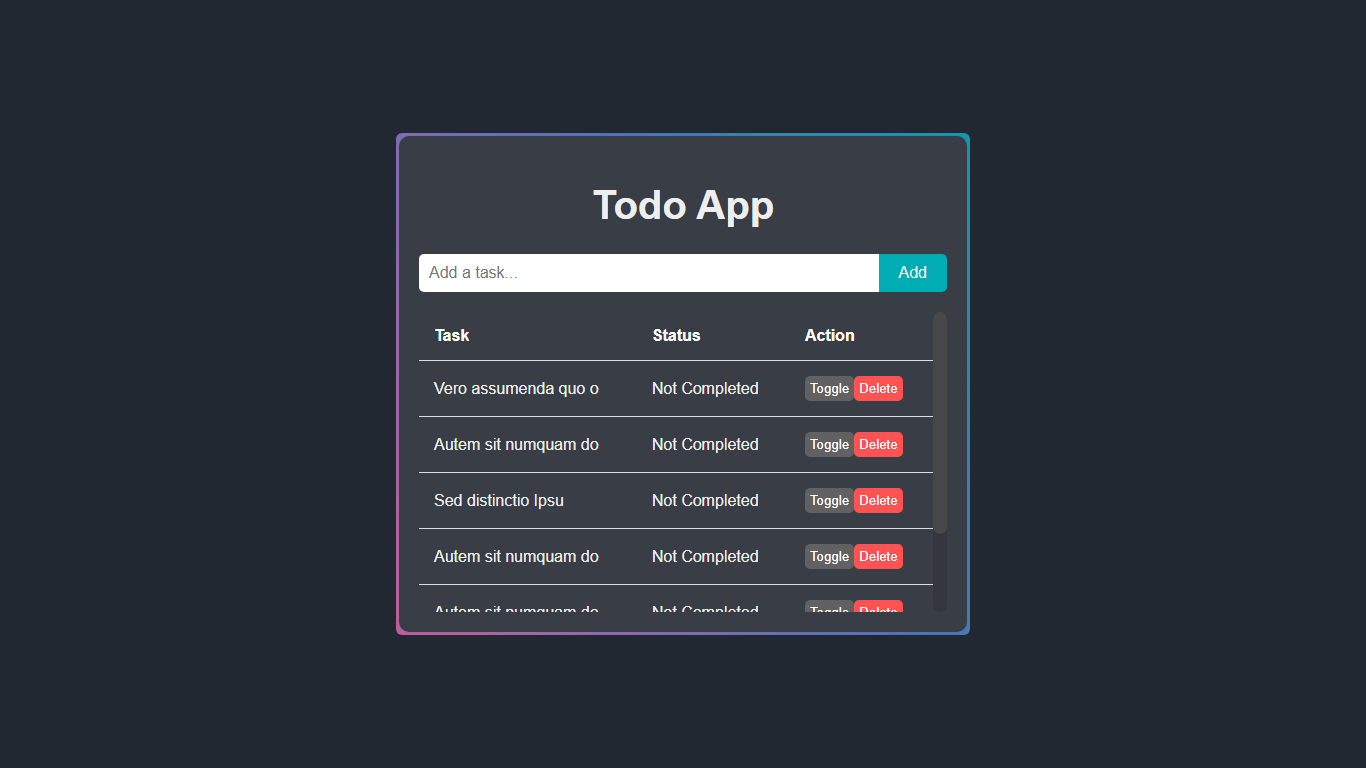
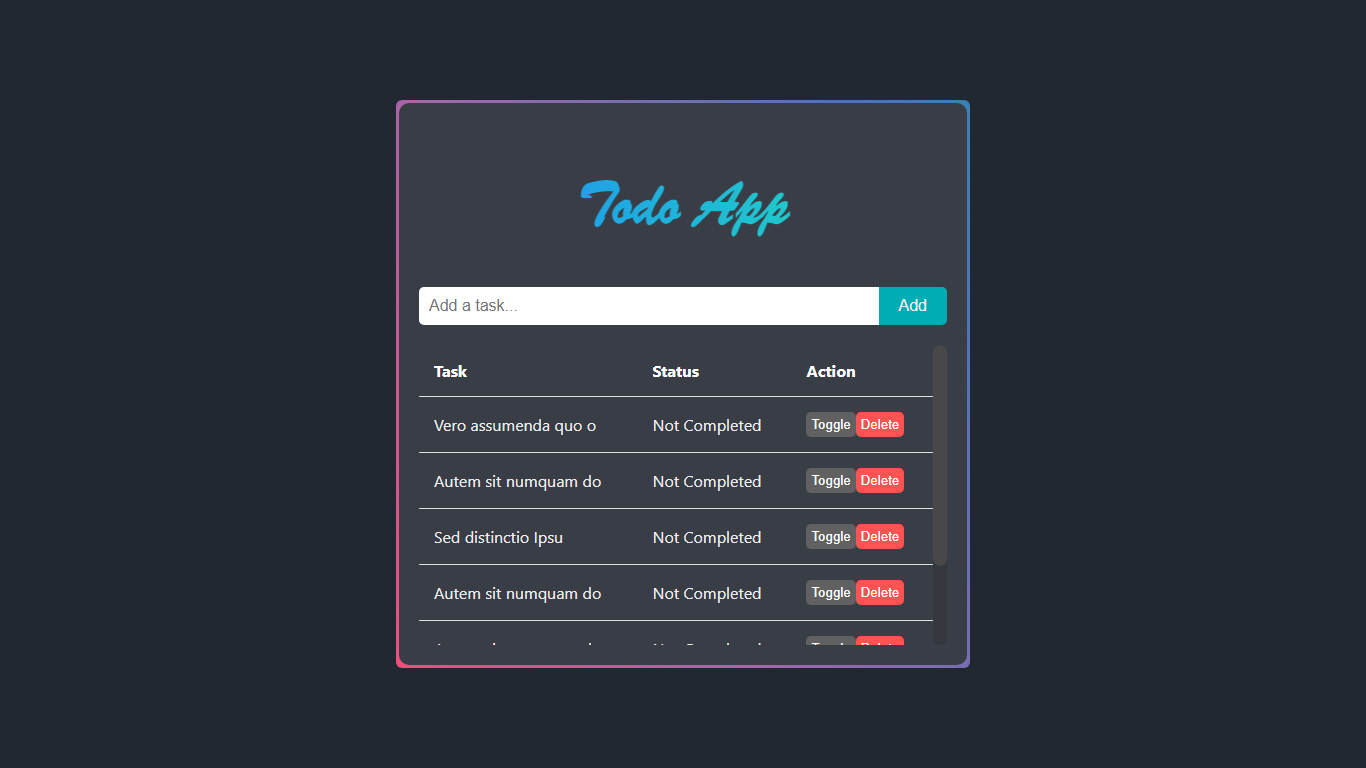
feat
Update TodoApp : Change Title and Make Responsive

Changed region(s): [[0.2767, 0.2188, 0.7072, 0.875], [0.2767, 0.125, 0.7072, 0.1875]]

diff --git a/Contents/TodoApp/style/style.css b/Contents/TodoApp/style/style.css
@@ -4,10 +4,11 @@ body {
   align-items: center;
   height: 100vh;
   margin: 0%;
-  padding: 0%;
+  padding: 0% 5% 0% 5%;
   background-color: #222831;
   color: #eeeeee;
-  font-family: Arial, Helvetica, sans-serif;
+  font-family: system-ui, -apple-system, BlinkMacSystemFont, "Segoe UI", Roboto,
+    Oxygen, Ubuntu, Cantarell, "Open Sans", "Helvetica Neue", sans-serif;
 }
 #box {
   background-color: #393e46;
@@ -17,8 +18,26 @@ body {
   width: 528px;
 }
 
-#box h1{
-    font-size: 40px;
+@keyframes gradient-animation {
+  0% {
+    background-position: 0% 50%;
+  }
+  50% {
+    background-position: 100% 50%;
+  }
+  100% {
+    background-position: 0% 50%;
+  }
+}
+
+#box h1 {
+  font-size: 4em;
+  background: linear-gradient(270deg, #ff4b1f, #1fddff, #1fffa5, #1f7eff);
+  background-size: 400% 400%;
+  -webkit-background-clip: text;
+  -webkit-text-fill-color: transparent;
+  font-family: "Brush Script MT", cursive;
+  animation: gradient-animation 4s ease infinite;
 }
 
 .container {
@@ -51,62 +70,62 @@ body {
   background-size: 300% 300%;
 }
 @keyframes animatedgradient {
-	0% {
-		background-position: 0% 50%;
-	}
-	50% {
-		background-position: 100% 50%;
-	}
-	100% {
-		background-position: 0% 50%;
-	}
+  0% {
+    background-position: 0% 50%;
+  }
+  50% {
+    background-position: 100% 50%;
+  }
+  100% {
+    background-position: 0% 50%;
+  }
 }
 
-.input-container{
-    margin-bottom: 20px;
-    display: flex;
+.input-container {
+  margin-bottom: 20px;
+  display: flex;
+  width: 100%;
+  input {
     width: 100%;
-    input{
-        width: 100%;
-        padding: 10px;
-        border: none;
-        border-top-left-radius: 5px;
-        border-bottom-left-radius: 5px;
-        outline: none;
-        font-size: 16px;
-    }
-    button{
-        padding: 10px 20px;
-        border: none;
-        border-top-right-radius: 5px;
-        border-bottom-right-radius: 5px;
-        background-color: #00ADB5;
-        color: #eeeeee;
-        cursor: pointer;
-        font-size: 16px;
-    }
-    button:hover{
-        background-color: #028086;
-    }
-    button:focus{
-        outline: none;
-    }
-
+    padding: 10px;
+    border: none;
+    border-top-left-radius: 5px;
+    border-bottom-left-radius: 5px;
+    outline: none;
+    font-size: 16px;
+  }
+  button {
+    padding: 10px 20px;
+    border: none;
+    border-top-right-radius: 5px;
+    border-bottom-right-radius: 5px;
+    background-color: #00adb5;
+    color: #eeeeee;
+    cursor: pointer;
+    font-size: 16px;
+  }
+  button:hover {
+    background-color: #028086;
+  }
+  button:focus {
+    outline: none;
+  }
 }
-table{
-    width: 100%;
-    border-collapse: collapse;
-    margin-bottom: 20px;
-    th, td {
-        padding: 15px;
-        text-align: left;
-        border-bottom: 1px solid #ddd;
-    }
-    th {
-        color: white;
-    }
+table {
+  width: 100%;
+  border-collapse: collapse;
+  margin-bottom: 20px;
+  th,
+  td {
+    padding: 15px;
+    text-align: left;
+    border-bottom: 1px solid #ddd;
+  }
+  th {
+    color: white;
+  }
 }
-.body-container{
+.body-container {
   height: 300px;
   overflow-y: scroll;
 }
@@ -123,8 +142,6 @@ table{
   color: #fff;
 }
 
-
-
 .body-container {
   --sb-track-color: #34373d;
   --sb-thumb-color: #48484b;
@@ -132,7 +149,7 @@ table{
 }
 
 .body-container::-webkit-scrollbar {
-  width: var(--sb-size)
+  width: var(--sb-size);
 }
 
 .body-container::-webkit-scrollbar-track {
@@ -143,37 +160,151 @@ table{
 .body-container::-webkit-scrollbar-thumb {
   background: var(--sb-thumb-color);
   border-radius: 16px;
-  
 }
 
 @supports not selector(::-webkit-scrollbar) {
   .body-container {
-    scrollbar-color: var(--sb-thumb-color)
-                     var(--sb-track-color);
+    scrollbar-color: var(--sb-thumb-color) var(--sb-track-color);
   }
 }
 
-.complete-btn{
+.complete-btn {
   border: none;
   background-color: #616161;
   color: white;
   padding: 5px;
   border-radius: 5px;
-  &:hover{
+  &:hover {
     background-color: #818181;
     transition: background 0.4 ease;
     cursor: pointer;
   }
 }
-.delete-btn{
+.delete-btn {
   border: none;
-  background-color: #FF5252;
+  background-color: #ff5252;
   color: white;
   padding: 5px;
   border-radius: 5px;
-  &:hover{
+  &:hover {
     background-color: #ff7575;
     transition: background 0.4 ease;
     cursor: pointer;
+  }
+}
+
+@media (max-wigth: 700px) {
+  #box {
+    width: 100%;
+    padding: 10px;
+  }
+  #box h1 {
+    font-size: 3rem;
+  }
+  table {
+    width: 100%;
+  }
+  button {
+    padding: 5px 10px;
+  }
+  input {
+    width: 100%;
+  }
+  button:hover {
+    background-color: #028086;
+  }
+  button:focus {
+    outline: none;
+  }
+  table th,
+  td {
+    padding: 10px;
+  }
+}
+
+@media (max-width: 600px) {
+  #box {
+    width: 100%;
+    padding: 10px;
+  }
+  #box h1 {
+    font-size: 3rem;
+  }
+  table {
+    width: 100%;
+  }
+  button {
+    padding: 5px 10px;
+  }
+  input {
+    width: 100%;
+  }
+  button:hover {
+    background-color: #028086;
+  }
+  button:focus {
+    outline: none;
+  }
+  table th,
+  td {
+    padding: 10px;
+  }
+}
+
+@media (max-width: 400px) {
+  #box {
+    width: 100%;
+    padding: 10px;
+  }
+  #box h1 {
+    font-size: 3rem;
+  }
+  table {
+    width: 100%;
+  }
+  button {
+    padding: 5px 10px;
+  }
+  input {
+    width: 100%;
+  }
+  button:hover {
+    background-color: #028086;
+  }
+  button:focus {
+    outline: none;
+  }
+  table th,
+  td {
+    padding: 10px;
+  }
+}
+
+@media (max-width: 300px) {
+  #box {
+    width: 100%;
+    padding: 10px;
+  }
+  #box h1 {
+    font-size: 3rem;
+  }
+  table {
+    width: 100%;
+  }
+  button {
+    padding: 5px 10px;
+  }
+  input {
+    width: 100%;
+  }
+  button:hover {
+    background-color: #028086;
+  }
+  button:focus {
+    outline: none;
+  }
+  table th,
+  td {
+    padding: 10px;
   }
 }

diff --git a/static/index.html b/static/index.html
@@ -20,31 +20,31 @@
 
     <div class="projects" id="projects">
         <div class="project-card">
-            <img src="image/todo.png" alt="Project 2 Image">
+            <img src="image/todo.png">
             <h2>TodoApp</h2>
             <p>a simple todo app for your task</p>
             <a href="../Contents/TodoApp/index.html">View Project</a>
         </div>
         <div class="project-card">
-            <img src="image/chronobirth.png" alt="Project 2 Image">
+            <img src="image/chronobirth.png">
             <h2>ChronoBirth</h2>
             <p>Digital Clock && Age Calculator</p>
             <a href="../Contents/ChronoBirth/index.html">View Project</a>
         </div>
         <div class="project-card">
-            <img src="image/dashboard.png" alt="Project 2 Image">
+            <img src="image/dashboard.png">
             <h2>Dashboard</h2>
             <p>Book table</p>
             <a href="../Contents/Dashboard/index.html">View Project</a>
         </div>
         <div class="project-card">
-            <img src="image/number.png" alt="Project 2 Image">
+            <img src="image/number.png">
             <h2>Number guessing game</h2>
             <p>Basic number game</p>
             <a href="../Contents/Number guessing game/index.html">View Project</a>
         </div>
         <div class="project-card">
-            <img src="image/hamburgermenu.png" alt="Project 2 Image">
+            <img src="image/hamburgermenu.png">
             <h2>Hamburger Menu</h2>
             <p>Like a github...</p>
             <a href="../Contents/Hamburger Menu/index.html">View Project</a>

diff --git a/Contents/TodoApp/index.html b/Contents/TodoApp/index.html
@@ -13,6 +13,7 @@
   </head>
   <body>
     <div class="container" id="box">
+      <div class="shape"></div>
       <div class="header">
         <h1>Todo App</h1>
       </div>
